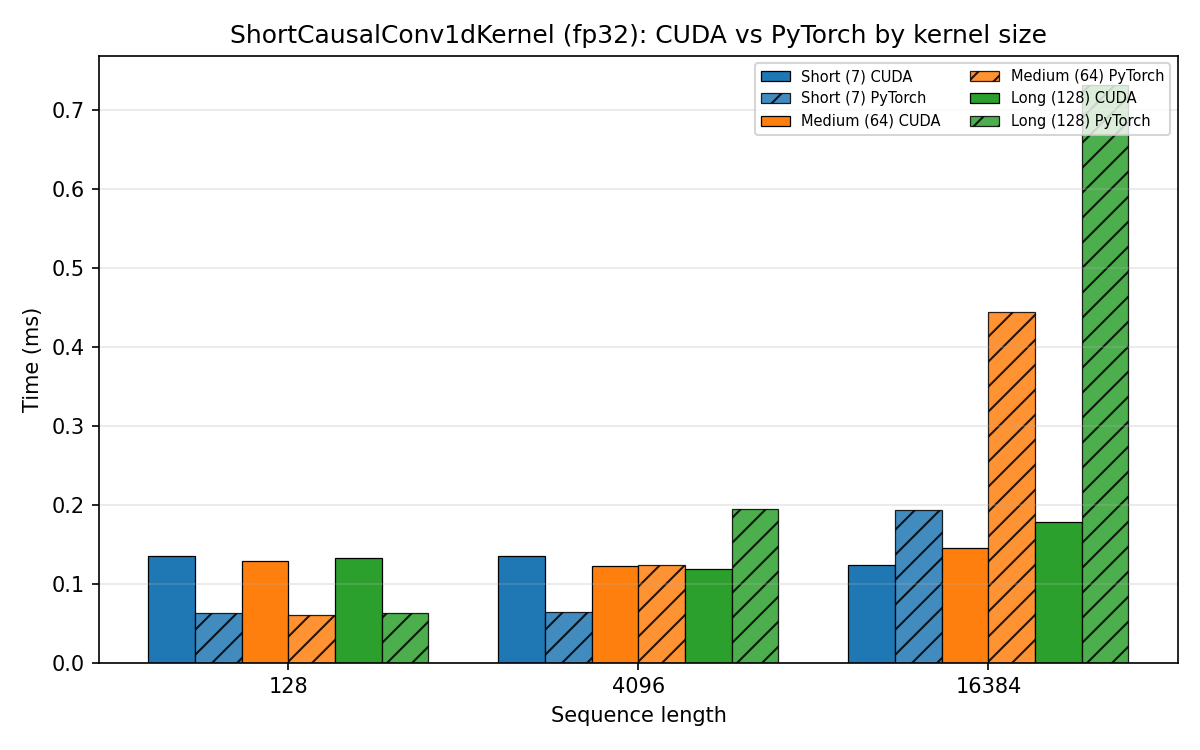
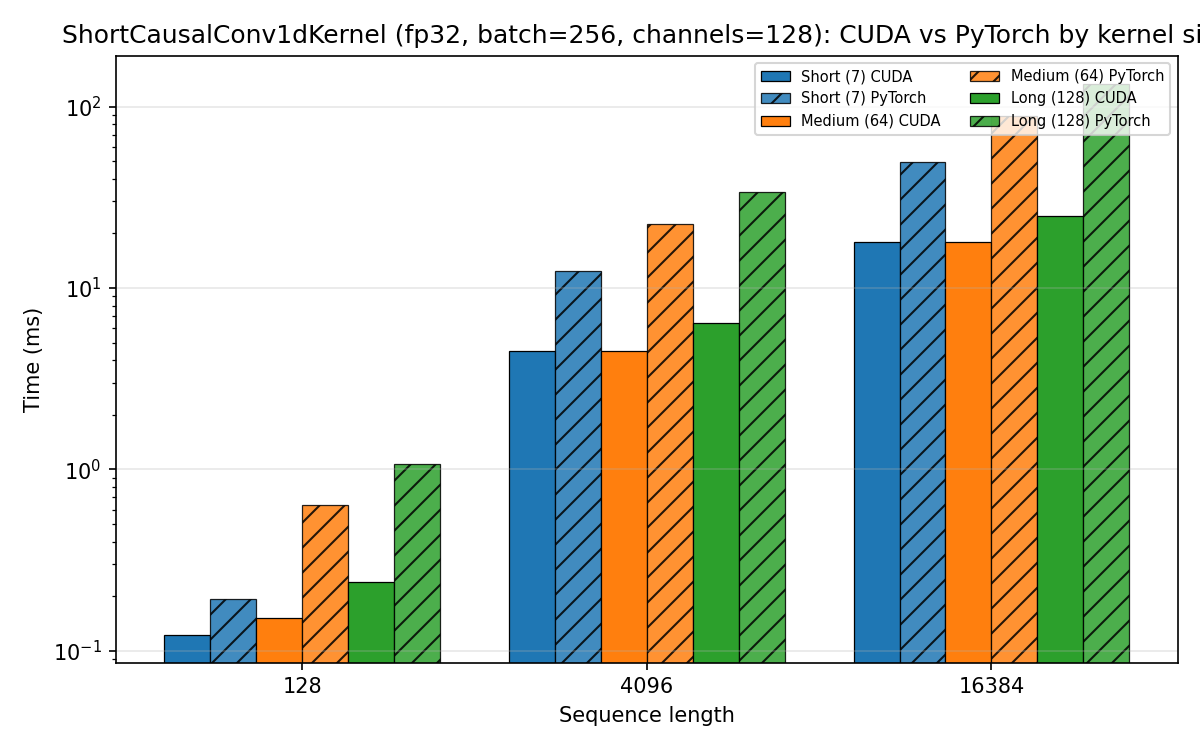
pytorch wrapper for cuda kernel of causalConv1d

diff --git a/scripts/benchmarks/short_causalconv1d_kernel/bench_short_causalconv1d_kernel.py b/scripts/benchmarks/short_causalconv1d_kernel/bench_short_causalconv1d_kernel.py
@@ -177,6 +177,8 @@ def plot_speed(
     seq_lens: list[int],
     dtypes: list[str],
     output_path: str | None,
+    batch: int,
+    channels: int,
 ) -> None:
     """Single plot: x = seq length, bar groups per kernel size (CUDA + PyTorch). fp32 only. Saves to script dir."""
     try:
@@ -248,10 +250,10 @@ def plot_speed(
     ax.set_xlabel("Sequence length")
     ax.set_xticks(x_pos)
     ax.set_xticklabels([str(s) for s in seq_lens])
-    ax.set_title("ShortCausalConv1dKernel (fp32): CUDA vs PyTorch by kernel size")
+    ax.set_title(f"ShortCausalConv1dKernel (fp32, batch={batch}, channels={channels}): CUDA vs PyTorch by kernel size")
+    ax.set_yscale("log")
     ax.legend(loc="upper right", ncol=2, fontsize=7)
     ax.grid(axis="y", alpha=0.3)
-    ax.set_ylim(bottom=0)
     fig.tight_layout()
 
     # Always save to script directory
@@ -271,8 +273,8 @@ def main() -> None:
     parser = argparse.ArgumentParser(
         description="Benchmark ShortCausalConv1dKernel: default = 3 kernel sizes (short/medium/long), plot speed, print accuracy"
     )
-    parser.add_argument("--batch", type=int, default=4, help="Batch size")
-    parser.add_argument("--channels", type=int, default=64, help="Channels")
+    parser.add_argument("--batch", type=int, default=256, help="Batch size")
+    parser.add_argument("--channels", type=int, default=128, help="Channels")
     parser.add_argument(
         "--seq-lens",
         type=int,
@@ -383,6 +385,8 @@ def main() -> None:
             seq_lens,
             list(args.dtypes),
             args.output,
+            args.batch,
+            args.channels,
         )
 
 